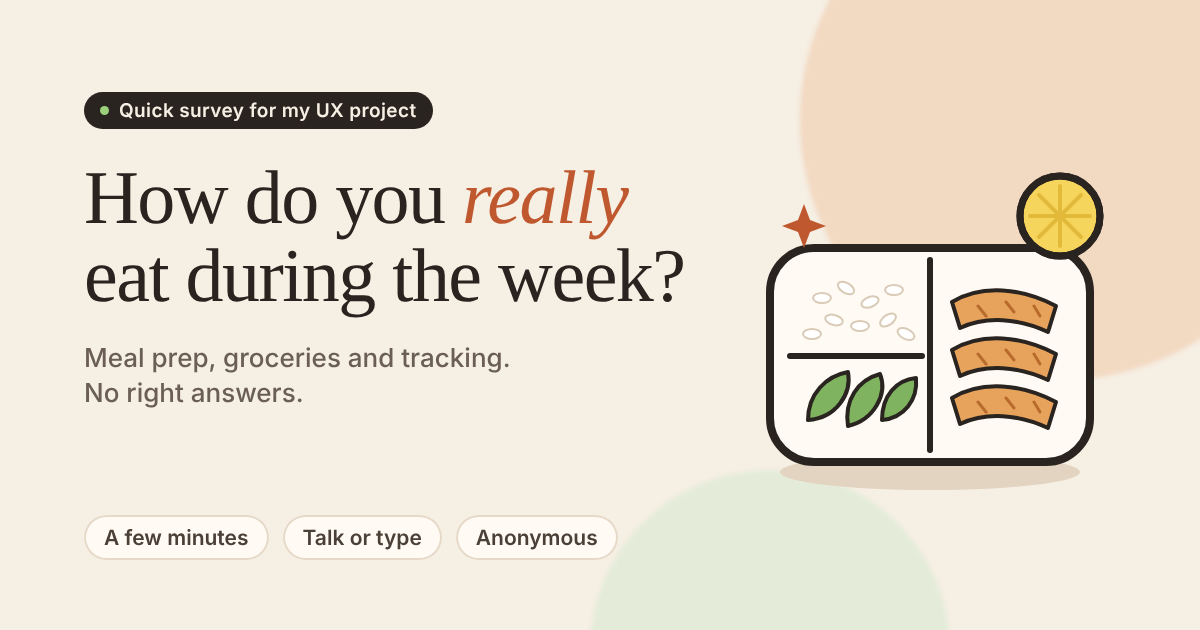
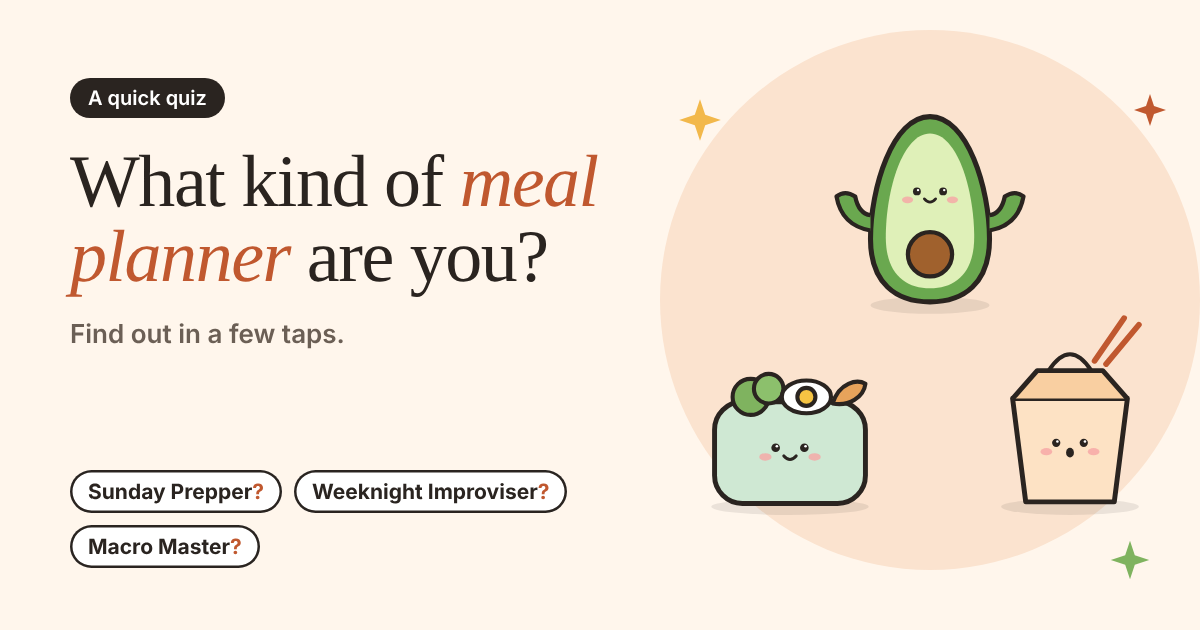
Share link: 'What kind of meal planner are you?' preview with three food characters
Claude-Session: https://claude.ai/code/session_01NH662fZXScpXgRVmi7RKZE

diff --git a/public/s/meal-prep/index.html b/public/s/meal-prep/index.html
@@ -3,18 +3,19 @@
 <head>
 <meta charset="utf-8">
 <meta name="viewport" content="width=device-width, initial-scale=1">
-<title>How do you really eat during the week?</title>
-<meta name="description" content="A quick survey for my UX project: meal prep, groceries and tracking. Talk or type, anonymous, no right answers.">
+<meta property="og:image:type" content="image/png">
+<title>What kind of meal planner are you?</title>
+<meta name="description" content="A quick quiz for my UX project. Find out if you’re a Sunday Prepper, a Weeknight Improviser or a Macro Master.">
 <!-- What iMessage, WhatsApp, Instagram and Slack show when the link is shared -->
 <meta property="og:type" content="website">
 <meta property="og:site_name" content="Katelyn Wolfley">
-<meta property="og:title" content="How do you really eat during the week?">
-<meta property="og:description" content="A quick survey for my UX project. Talk or type, anonymous, no right answers.">
+<meta property="og:title" content="What kind of meal planner are you?">
+<meta property="og:description" content="Sunday Prepper? Weeknight Improviser? Macro Master? A quick quiz for my UX project.">
 <meta property="og:url" content="https://studio.katelynwolfley.design/s/meal-prep/">
 <meta property="og:image" content="https://studio.katelynwolfley.design/s/meal-prep/preview.png">
 <meta property="og:image:width" content="1200">
 <meta property="og:image:height" content="630">
-<meta property="og:image:alt" content="A meal prep container with rice, greens, chicken and a lemon, next to the words: How do you really eat during the week?">
+<meta property="og:image:alt" content="Three cute food characters, a meal prep box, a takeout box and an avocado, next to the words: What kind of meal planner are you?">
 <meta name="twitter:card" content="summary_large_image">
 <meta name="twitter:image" content="https://studio.katelynwolfley.design/s/meal-prep/preview.png">
 <link rel="apple-touch-icon" href="/s/meal-prep/preview.png">
@@ -33,10 +34,10 @@ small{color:#9a8e83;font-size:13px}
 </head>
 <body>
 <main>
-  <img src="/s/meal-prep/preview.png" alt="A meal prep container with rice, greens, chicken and a lemon" width="1200" height="630">
-  <h1>How do you <em>really</em> eat during the week?</h1>
-  <p>A quick survey for my UX project. Talk or type your answers. Anonymous, and there are no wrong answers.</p>
-  <a class="start" href="/#/r/8d8c2154-9df3-4419-9e30-6eabdaa75eec">Start the survey</a>
+  <img src="/s/meal-prep/preview.png" alt="Three cute food characters: a meal prep box, a takeout box and an avocado" width="1200" height="630">
+  <h1>What kind of <em>meal planner</em> are you?</h1>
+  <p>A quick quiz for my UX project. Answer honestly, there are no wrong answers, and you’ll find out your type at the end. Anonymous.</p>
+  <a class="start" href="/#/r/8d8c2154-9df3-4419-9e30-6eabdaa75eec">Find out</a>
   <small>Thank you for helping! – Katelyn</small>
 </main>
 </body>
